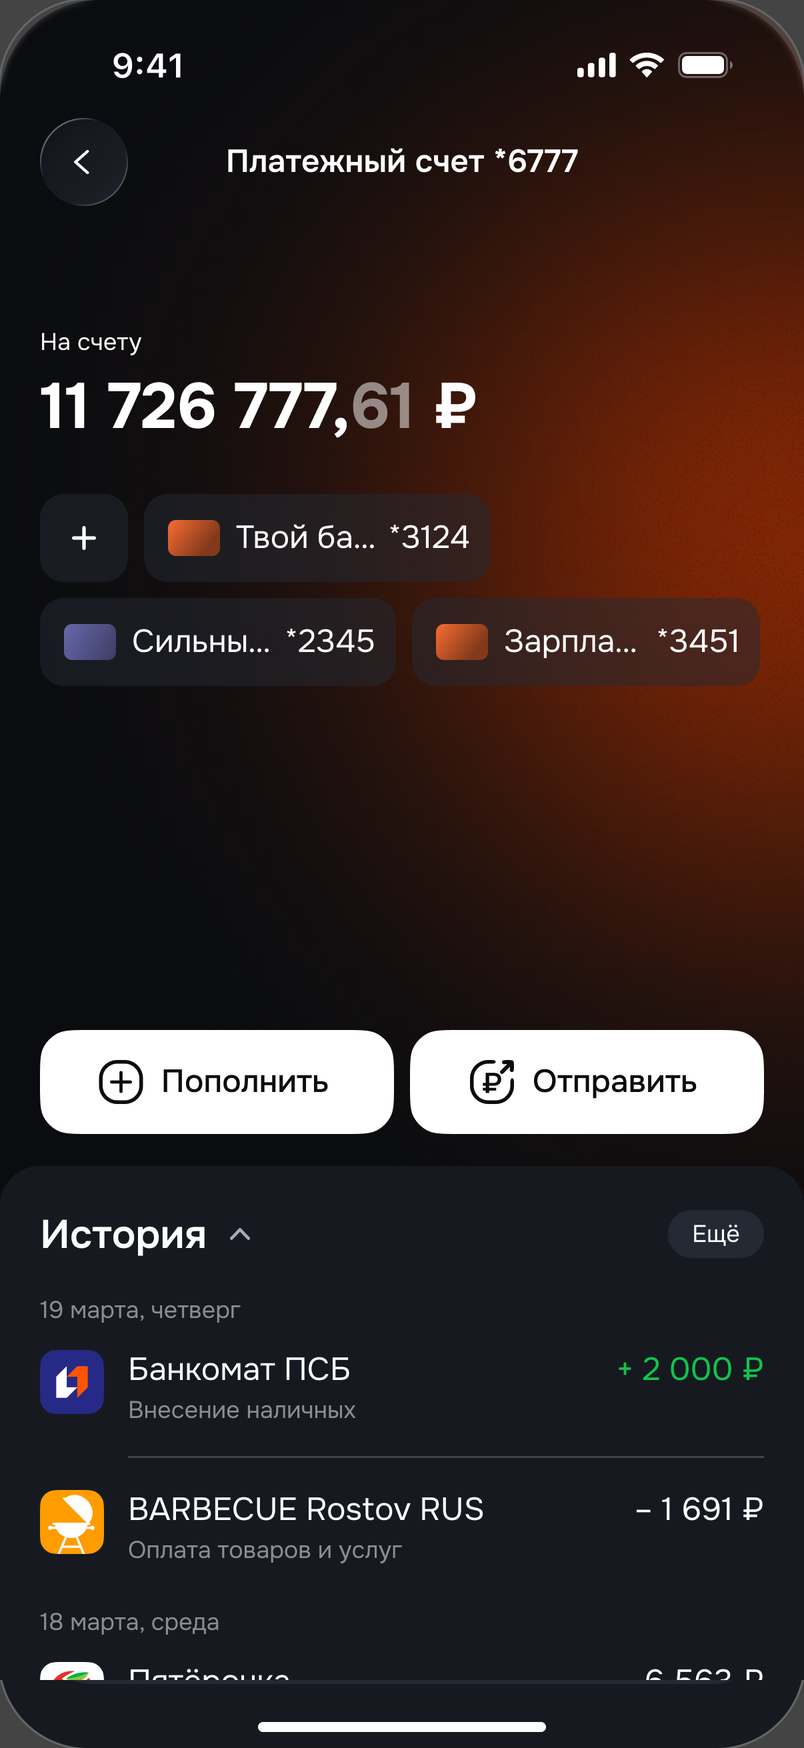
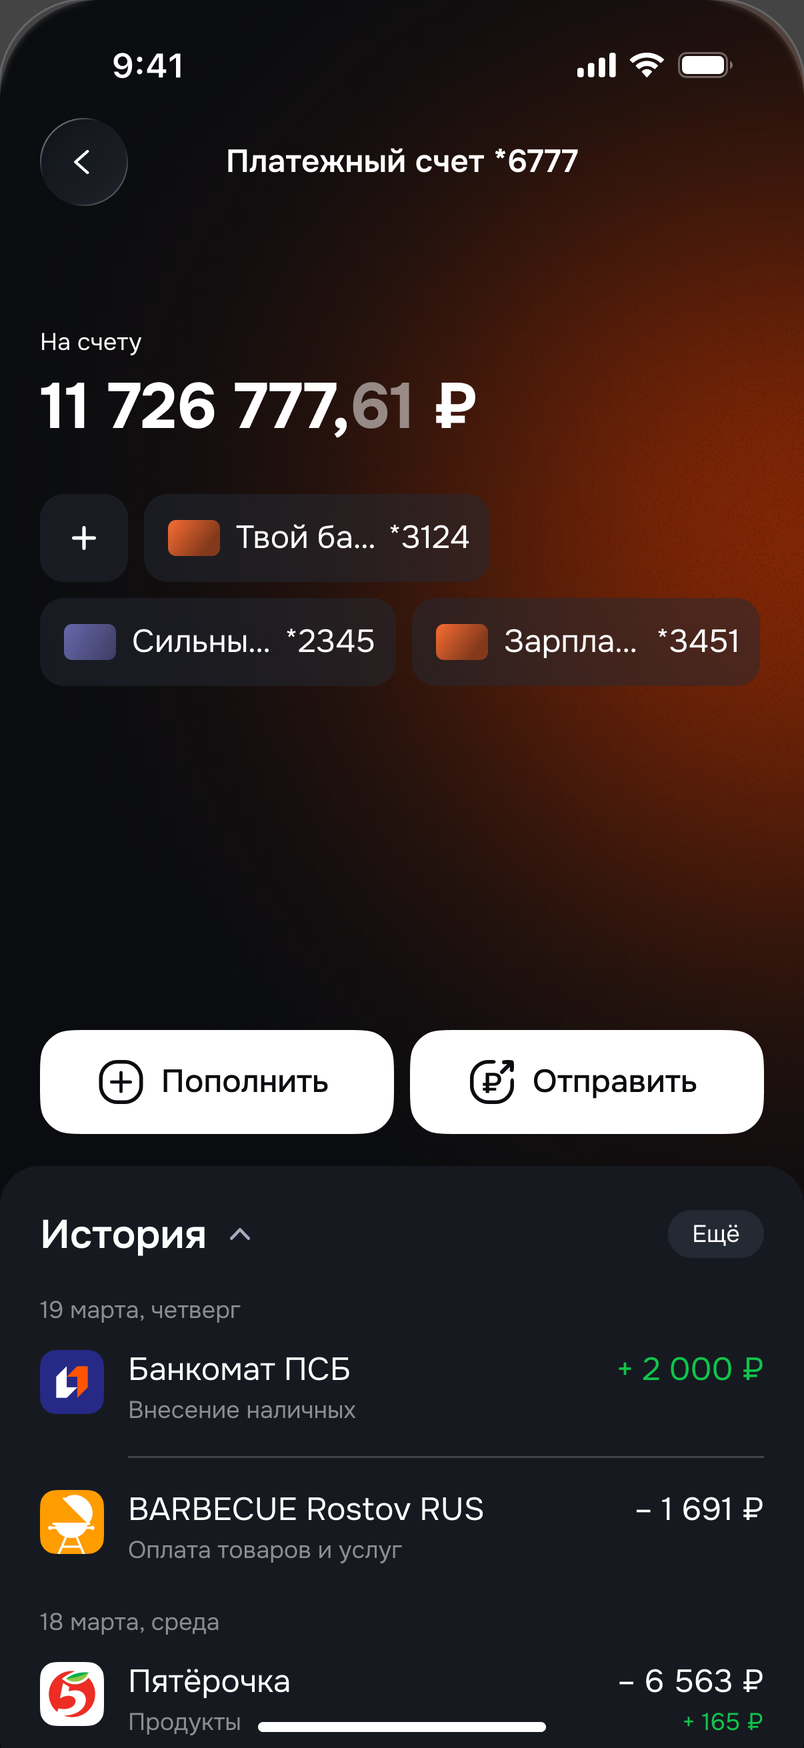
Overlay only the home indicator on the PSB account screen
The bottom strip pasted from the end of the frame carried the list behind
it, so the indicator showed up on a mismatched backdrop. Composite just the
indicator pill instead, so the screen's own content shows through.

Claude-Session: https://claude.ai/code/session_019BMb4R2areoKUEhfSjMSAo

Changed region(s): [[0.0, 0.9577, 0.342, 1.0], [0.8396, 0.9577, 1.0, 1.0]]

diff --git a/tools/case-covers/psb.html b/tools/case-covers/psb.html
@@ -6,7 +6,9 @@
   Screens: frames from the "mockup for claude" section of the PSB Figma file, exported at 3x,
   trimmed of the 1pt export rim and cropped to the first 874pt (one iPhone screen). Elements
   pinned to the bottom in Figma (tab bar + home indicator, the footer button) sit at the very end
-  of the long frame, so that bottom strip is pasted over the end of the 874pt crop; saved at 2x
+  of the long frame, so that bottom strip is pasted over the end of the 874pt crop (on the
+  account screen only the home indicator pill, exported alone and keyed off its grey backdrop,
+  so the content shows through); saved at 2x
   (tools/case-covers/psb/*.png). The iPhone 17 Pro
   body is the hidden "bezel" layer from the same file (450×920pt, screen inset 24/23pt).
   Background: a faint tile pattern of pixel coins and hearts.
